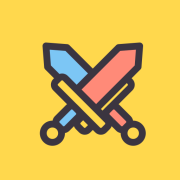
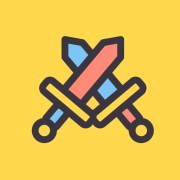
Add files via upload

Changed region(s): [[0.1667, 0.1944, 0.8611, 0.8333]]

diff --git a/index.html b/index.html
@@ -232,7 +232,7 @@ body.view .btn:not([data-act="trophy"]):not([data-act="ptrophy"]){display:none}
 <div class="wrap">
   <header>
     <div class="brand">
-      <svg class="meeple" width="58" height="58" viewBox="0 0 64 64" aria-hidden="true"><g stroke="#3B3540" stroke-width="3" stroke-linejoin="round" stroke-linecap="round"><g transform="rotate(-45 32 32)"><path d="M32 3 L38 10 V36 H26 V10 Z" fill="#7CC6F5"/><rect x="17" y="36" width="30" height="6" rx="2" fill="#FFD84D"/><rect x="29" y="42" width="6" height="11" rx="2" fill="#FF8A78"/><circle cx="32" cy="57" r="4" fill="#FFD84D"/></g><g transform="rotate(45 32 32)"><path d="M32 3 L38 10 V36 H26 V10 Z" fill="#FF8A78"/><rect x="17" y="36" width="30" height="6" rx="2" fill="#FFD84D"/><rect x="29" y="42" width="6" height="11" rx="2" fill="#7CC6F5"/><circle cx="32" cy="57" r="4" fill="#FFD84D"/></g></g></svg>
+      <svg class="meeple" width="58" height="58" viewBox="0 0 64 64" aria-hidden="true"><g stroke="#3B3540" stroke-width="3" stroke-linejoin="round" stroke-linecap="round"><g transform="rotate(-40 32 22)"><path d="M32 3 L37 9 V36 H27 V9 Z" fill="#7CC6F5"/><rect x="19" y="36" width="26" height="6" rx="2" fill="#FFD84D"/><rect x="29" y="42" width="6" height="10" rx="2" fill="#FF8A78"/><circle cx="32" cy="55" r="4" fill="#FFD84D"/></g><g transform="rotate(40 32 22)"><path d="M32 3 L37 9 V36 H27 V9 Z" fill="#FF8A78"/><rect x="19" y="36" width="26" height="6" rx="2" fill="#FFD84D"/><rect x="29" y="42" width="6" height="10" rx="2" fill="#7CC6F5"/><circle cx="32" cy="55" r="4" fill="#FFD84D"/></g></g></svg>
       <div><h1>Game Night <span class="hl">Gauntlet</span></h1><p class="tagline">Family board game championship</p></div>
     </div>
     <p class="sub" id="sub"></p>
@@ -1173,6 +1173,7 @@ const KEY='ubg-v1';
 function load(){if(VIEW)return fresh();try{const s=localStorage.getItem(KEY);if(s){const o=JSON.parse(s);if(o&&o.v===1)return ensureDefaults(o);}}catch(e){}return fresh();}
 let S=load();
 const ui={view:VIEW?'standings':S.started?'rounds':'setup',open:{},confirm:null,scrollTo:null,top:false,tkey:null,turl:null};
+try{const v=localStorage.getItem('ubg-view');if(['setup','rounds','standings','finale','history'].includes(v)){ui.view=v;ui.touched=true;}}catch(e){}
 const app=document.getElementById('app');
 const esc=s=>String(s).replace(/[&<>"']/g,c=>({'&':'&amp;','<':'&lt;','>':'&gt;','"':'&quot;',"'":'&#39;'}[c]));
 const pname=id=>{const p=S.players.find(p=>p.id===id);return p?p.name:'?';};
@@ -1719,6 +1720,7 @@ function afterRender(){
 const TABS=(VIEW?[]:[['setup','Setup']]).concat([['rounds','Rounds'],['standings','Standings'],['finale','Finale'],['history','History']]);
 function render(){
   const y=window.scrollY;
+  try{localStorage.setItem('ubg-view',ui.view);}catch(e){}
   const n=S.players.length;
   document.getElementById('sub').textContent=S.started
     ?`${n} players · ${S.rounds.length} rounds · top ${S.finalists} play the final`
